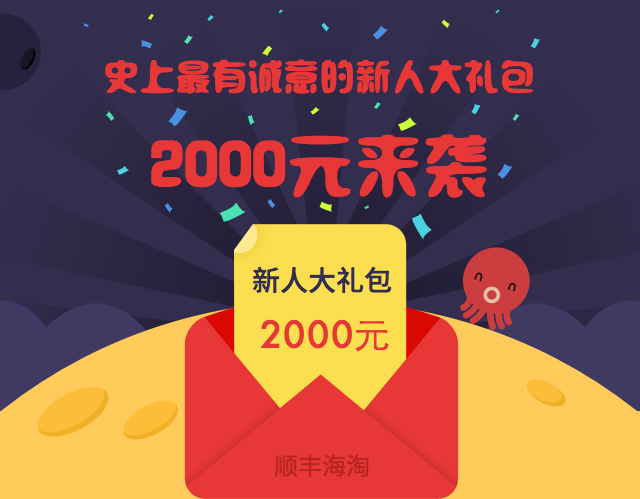
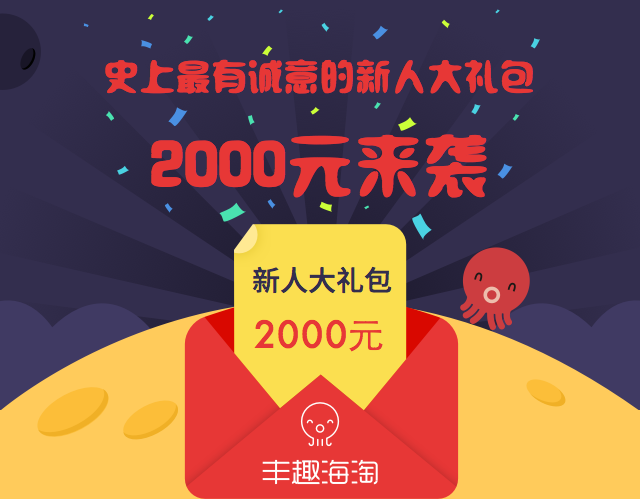
[dev]sfBrotherBind-img-mod

diff --git a/app/brotherIn.html b/app/brotherIn.html
@@ -15,10 +15,10 @@
 
 	<div class="sfBrotherBindBn sfBrotherDownCn centerBox">
 		<div class="sfBrotherDban">
-			<img src="http://img.sfht.com/sfhth5/1.1.393/img/sfBrotherBind/brdBanner.png">
+			<img src="http://img.sfht.com/sfhth5/1.1.394/img/sfBrotherBind/brdBanner.png">
 		</div>
 		<div class="sfBrotherDcp text-center">
-			<img src="http://img.sfht.com/sfhth5/1.1.393/img/sfBrotherBind/brands.png">
+			<img src="http://img.sfht.com/sfhth5/1.1.394/img/sfBrotherBind/brands.png">
 			<div class="lineYellowColor"></div>
 			<a class="btn btn-danger btn-big centerBox font14" href="http://m.sfht.com/app.html">下载app领红包</a>
 		</div>
